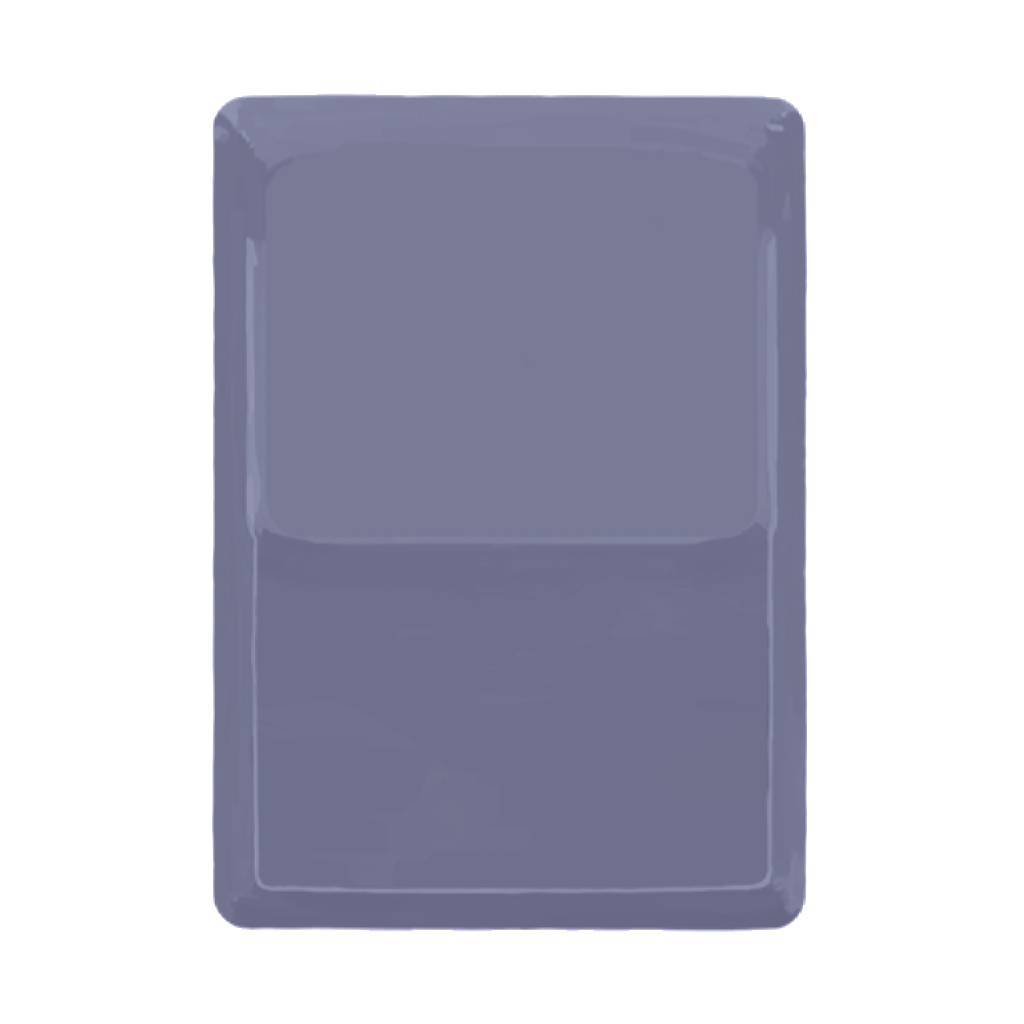
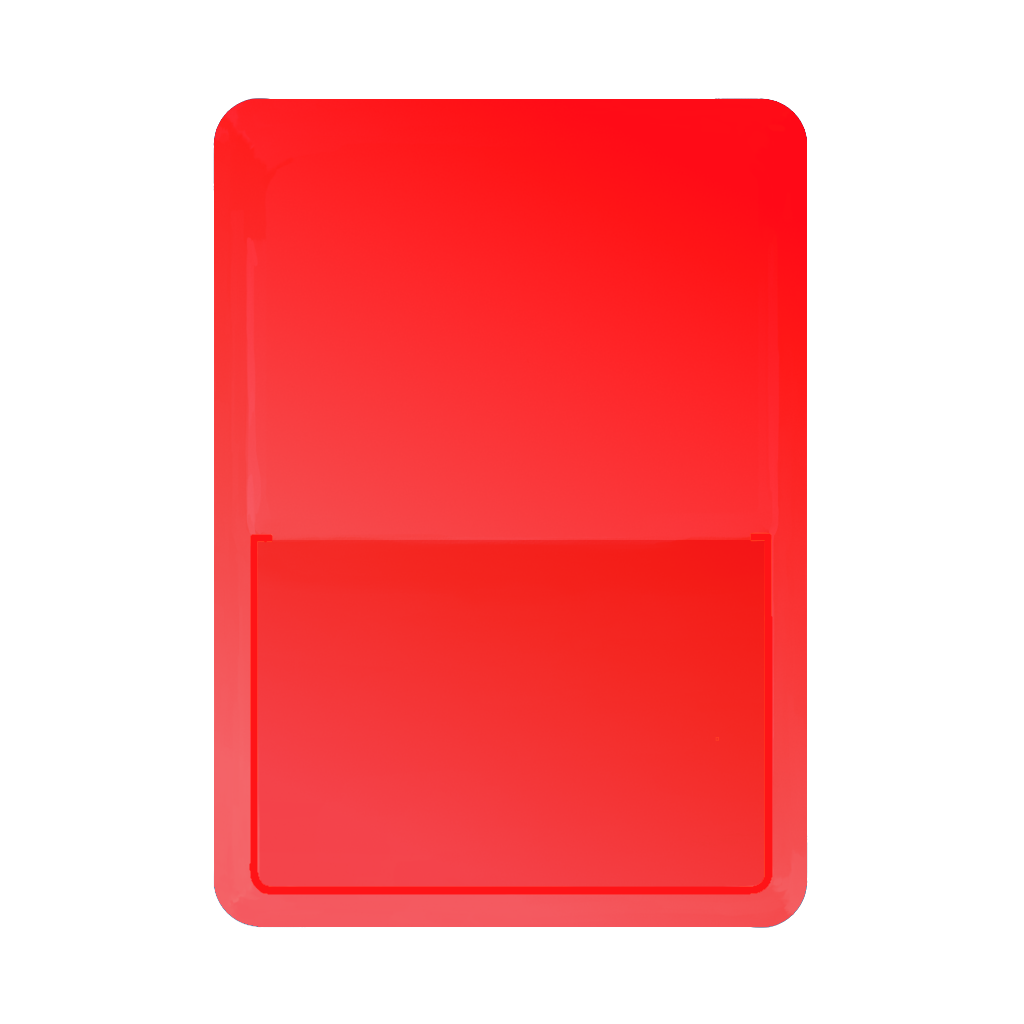
add some card art and bg

diff --git a/src/main/java/code/PokemonRegions.java b/src/main/java/code/PokemonRegions.java
@@ -17,6 +17,7 @@ import com.evacipated.cardcrawl.modthespire.lib.SpireInitializer;
 import com.google.gson.Gson;
 import com.megacrit.cardcrawl.cards.AbstractCard;
 import com.megacrit.cardcrawl.core.Settings;
+import com.megacrit.cardcrawl.helpers.CardHelper;
 import com.megacrit.cardcrawl.helpers.CardLibrary;
 import com.megacrit.cardcrawl.localization.CardStrings;
 import com.megacrit.cardcrawl.localization.CharacterStrings;
@@ -57,7 +58,7 @@ public class PokemonRegions implements
         public static CardLibrary.LibraryType LIBRARY_COLOR;
     }
 
-    public static Color color = new Color(MathUtils.random(), MathUtils.random(), MathUtils.random(), 1); // This should be changed eventually
+    public static Color color = CardHelper.getColor(255, 30, 30);
     private static final String ATTACK_S_ART = makeImagePath("512/attack.png");
     private static final String SKILL_S_ART = makeImagePath("512/skill.png");
     private static final String POWER_S_ART = makeImagePath("512/power.png");

diff --git a/src/main/java/code/cards/AbstractAllyPokemonCard.java b/src/main/java/code/cards/AbstractAllyPokemonCard.java
@@ -1,5 +1,6 @@
 package code.cards;
 
+import basemod.patches.com.megacrit.cardcrawl.dungeons.AbstractDungeon.NoPools;
 import code.PokemonRegions;
 import code.monsters.AbstractPokemonAlly;
 import code.patches.TypeOverridePatch;
@@ -9,6 +10,7 @@ import com.megacrit.cardcrawl.localization.UIStrings;
 
 import static code.PokemonRegions.makeID;
 
+@NoPools
 public abstract class AbstractAllyPokemonCard extends AbstractEasyCard {
     private static final UIStrings uiStrings = CardCrawlGame.languagePack.getUIString(makeID("PokemonType"));
     public static final String TYPE = uiStrings.TEXT[0];

diff --git a/src/main/java/code/cards/AbstractEasyCard.java b/src/main/java/code/cards/AbstractEasyCard.java
@@ -73,10 +73,6 @@ public abstract class AbstractEasyCard extends CustomCard {
     private boolean upgradedRetain;
 
     private boolean needsArtRefresh = false;
-    public int staminaCost1;
-    public int staminaCost2;
-    public int currentStamina;
-    public int maxStamina;
 
     public AbstractEasyCard(final String cardID, final int cost, final CardType type, final CardRarity rarity, final CardTarget target) {
         this(cardID, cost, type, rarity, target, PokemonRegions.Enums.Pokedex);
